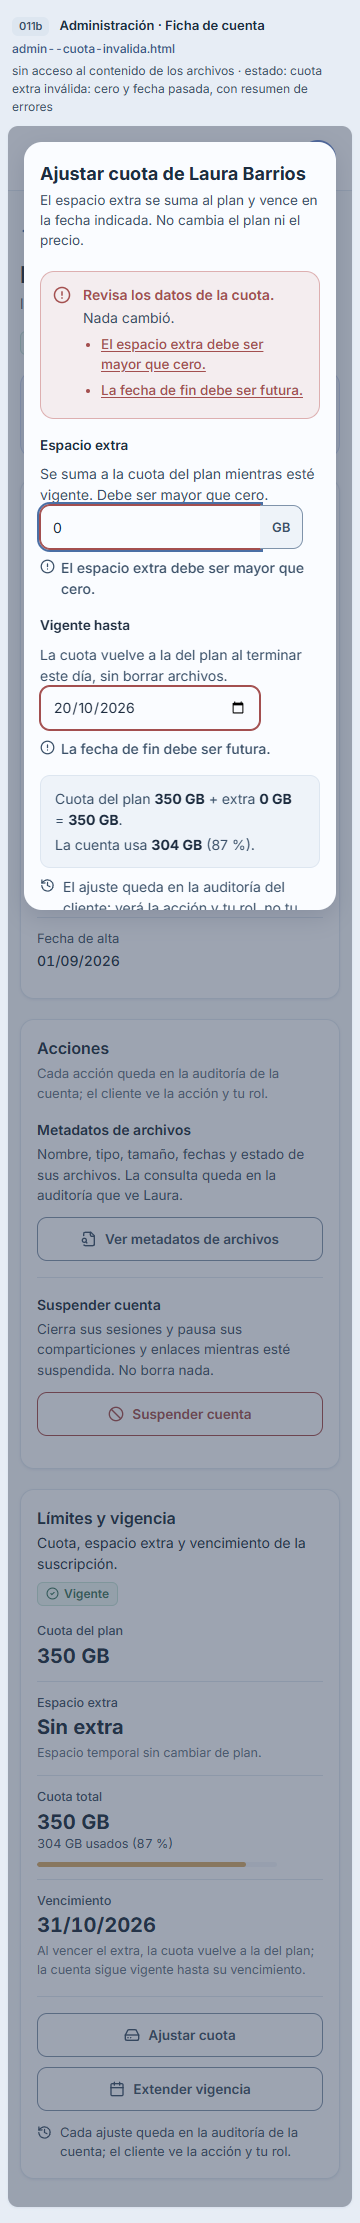
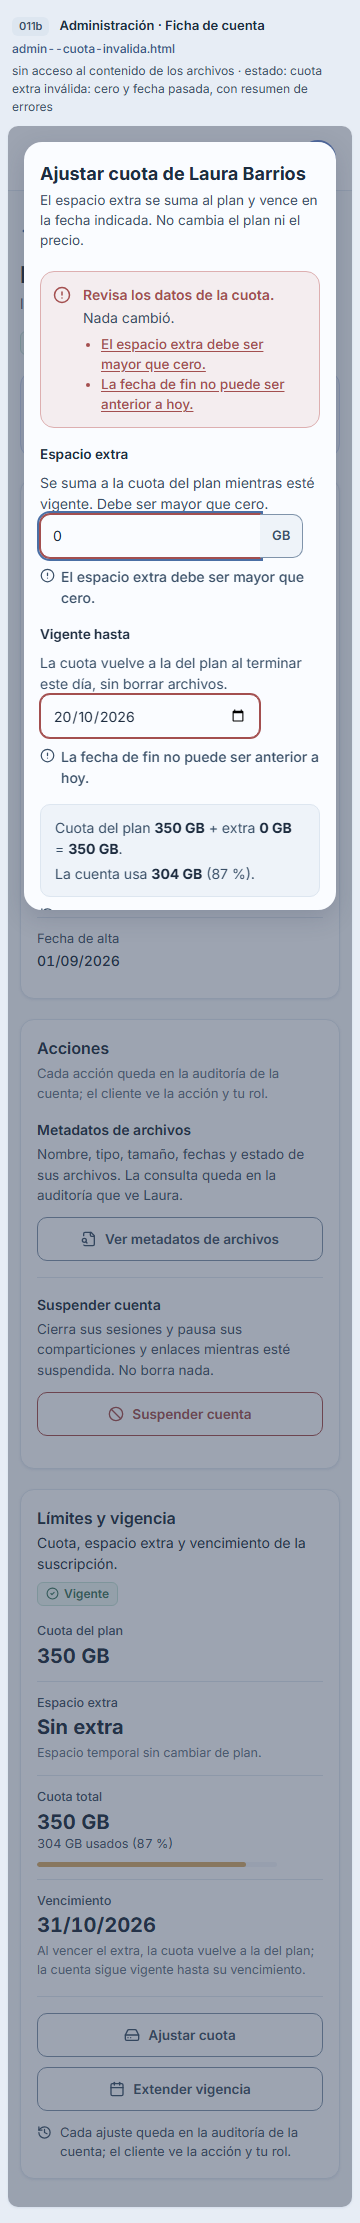
docs(011b): cierra la aprobación de Adrián y pasa la spec a «Lista»
N-7: el diálogo de cambio de plan entra en la regla del último día y «Venció el» queda fuera, con registro en la spec 010. N-8: el mockup cuota-invalida dice «La fecha de fin no puede ser anterior a hoy» y se regeneran sus capturas. Plan aprobado, ADR-0035 y DF-81 aceptados, y backlog al día.

Changed region(s): [[0.0917, 0.1552, 0.8861, 0.4035]]

diff --git a/docs/design/mockups/backoffice/admin/admin--cuota-invalida.html b/docs/design/mockups/backoffice/admin/admin--cuota-invalida.html
@@ -623,7 +623,7 @@
     <form onsubmit="return false">
       
           <div class="alert alert-error" role="alert" tabindex="-1" id="errores"><svg class="ico " width="18" height="18" viewBox="0 0 24 24" fill="none" stroke="currentColor" stroke-width="2" stroke-linecap="round" stroke-linejoin="round" aria-hidden="true" focusable="false"><circle cx="12" cy="12" r="10"/><path d="M12 8v4"/><path d="M12 16h.01"/></svg><div><p class="alert-title">Revisa los datos de la cuota.</p><p class="alert-text">Nada cambió.</p>
-            <ul class="alert-list"><li><a href="#cuota-extra">El espacio extra debe ser mayor que cero.</a></li><li><a href="#cuota-hasta">La fecha de fin debe ser futura.</a></li></ul></div></div>
+            <ul class="alert-list"><li><a href="#cuota-extra">El espacio extra debe ser mayor que cero.</a></li><li><a href="#cuota-hasta">La fecha de fin no puede ser anterior a hoy.</a></li></ul></div></div>
           <div class="field">
             <label for="cuota-extra">Espacio extra</label>
             <p class="field-help" id="cuota-extra-ayuda">Se suma a la cuota del plan mientras esté vigente. Debe ser mayor que cero.</p>
@@ -634,7 +634,7 @@
             <label for="cuota-hasta">Vigente hasta</label>
             <p class="field-help" id="cuota-hasta-ayuda">La cuota vuelve a la del plan al terminar este día, sin borrar archivos.</p>
             <input class="text-input short" id="cuota-hasta" name="cuota-hasta" type="date" value="2026-10-20" required aria-describedby="cuota-hasta-ayuda cuota-hasta-error" aria-invalid="true" >
-            <p class="field-error" id="cuota-hasta-error"><svg class="ico " width="15" height="15" viewBox="0 0 24 24" fill="none" stroke="currentColor" stroke-width="2" stroke-linecap="round" stroke-linejoin="round" aria-hidden="true" focusable="false"><circle cx="12" cy="12" r="10"/><path d="M12 8v4"/><path d="M12 16h.01"/></svg><span>La fecha de fin debe ser futura.</span></p>
+            <p class="field-error" id="cuota-hasta-error"><svg class="ico " width="15" height="15" viewBox="0 0 24 24" fill="none" stroke="currentColor" stroke-width="2" stroke-linecap="round" stroke-linejoin="round" aria-hidden="true" focusable="false"><circle cx="12" cy="12" r="10"/><path d="M12 8v4"/><path d="M12 16h.01"/></svg><span>La fecha de fin no puede ser anterior a hoy.</span></p>
           </div>
       <div class="calc" aria-live="polite">
         <p>Cuota del plan <strong>350 GB</strong> + extra <strong>0 GB</strong> = <strong>350 GB</strong>.</p>

diff --git a/docs/design/mockups/_generadores/admin/generar.js b/docs/design/mockups/_generadores/admin/generar.js
@@ -537,14 +537,17 @@ const DLG_QUITAR_EXTRA = dialogo({
   confirmar: 'Quitar extra', clase: 'btn-primary-dlg', ic: 'circlex', cancelar: 'admin--ficha.html',
 });
 
+const EXTRA_NO_POSITIVO = 'El espacio extra debe ser mayor que cero.';
+const FIN_ANTERIOR_A_HOY = 'La fecha de fin no puede ser anterior a hoy.';
+
 const DLG_CUOTA_INVALIDA = dialogoCuota({
   c: C.LAURA, extra: '0', hasta: '2026-10-20', total: '350 GB', usado: '304 GB', pct: 87,
-  errorCampo: { extra: 'El espacio extra debe ser mayor que cero.', hasta: 'La fecha de fin debe ser futura.' },
+  errorCampo: { extra: EXTRA_NO_POSITIVO, hasta: FIN_ANTERIOR_A_HOY },
   resumen: A.resumenErrores({
     titulo: 'Revisa los datos de la cuota.', texto: 'Nada cambió.',
     items: [
-      ['cuota-extra', 'El espacio extra debe ser mayor que cero.'],
-      ['cuota-hasta', 'La fecha de fin debe ser futura.'],
+      ['cuota-extra', EXTRA_NO_POSITIVO],
+      ['cuota-hasta', FIN_ANTERIOR_A_HOY],
     ],
   }),
 });

diff --git a/specs/011b-ajustes-de-cuenta-y-restauracion/spec.md b/specs/011b-ajustes-de-cuenta-y-restauracion/spec.md
@@ -4,7 +4,7 @@
 
 | Campo | Valor |
 |---|---|
-| Estado | Borrador (2026-10-22, revisado el 2026-10-26) · P-1 a P-9 resueltas · plan propuesto · mockups listos para revisión |
+| Estado | Lista (aprobada por Adrián el 2026-10-26, PR #74) · P-1 a P-9 resueltas · plan, ADR-0035 y mockups aprobados |
 | Dueño | Fátima |
 | Fase | 3 (hereda la 011, Fase 2; se ejecuta en la Fase 3) |
 | Requisitos | RF-05, RF-06, RF-07, RF-12, RF-22, RF-23, RF-24; RNF-05, RNF-13, RNF-14, RNF-17 |
@@ -12,9 +12,9 @@
 | Última actualización | 2026-10-26 |
 
 > **Continuidad:** borrador cerrado, `plan.md` propuesto y `/mockup` listo el 2026-10-22, con los hallazgos del PR #74
-> corregidos el 2026-10-23, la auditoría de Adrián del 2026-10-24 y su seguimiento del 2026-10-26. Lo que queda es la aprobación de Adrián de la spec,
-> el plan, el ADR-0035 y los mockups para pasar a «Lista», y después `/tasks` e `/implement`. Reparto: PR-A (cuota y
-> vigencia) y PR-B (restauración), en ramas nuevas desde `main`; el ADR-0035 se acepta antes del código del PR-A.
+> corregidos el 2026-10-23, la auditoría de Adrián del 2026-10-24 y su seguimiento del 2026-10-26. Adrián aprobó spec,
+> plan, ADR-0035 y mockups el 2026-10-26 («Lista»); sigue `/tasks` e `/implement`. Reparto: PR-A (cuota y vigencia) y
+> PR-B (restauración), en ramas nuevas desde `main`; el ADR-0035 queda aceptado antes del código del PR-A.
 
 ## 1. Contexto y objetivo
 La 011 dejó fuera, por tamaño, tres operaciones que la matriz de roles ya define: el Administrador ajusta la cuota y la
@@ -65,7 +65,7 @@ puede deshacer una eliminación concreta dejando rastro visible para el cliente.
 - **RN-5** Roles: Administración ajusta cuota y vigencia; Soporte restaura; Operador no hace ninguna de las tres; el Cliente no las llama. Administración no restaura y Soporte no ajusta cuota ni vigencia.
 - **RN-6** La cuota extra se aplica también a Personal; la vigencia no, porque Personal no vence.
 - **RN-7** Las tres acciones se permiten sobre cuentas activas o suspendidas y no cambian su estado; suspender sigue revocando sesiones y congelando compartidos (011 RN-6).
-- **RN-8** Los tamaños se capturan en GB con el mismo formato que el catálogo de planes y se guardan en bytes exactos (ADR-0016); la diferencia de bases con `formatBytes` de `storage` sigue en PD-91. Las fechas se muestran en hora de Guatemala y con el formato del sistema; el día que se captura se convierte a las 00:00 del día siguiente en `America/Guatemala` (06:00 UTC) y se guarda en UTC. Un instante de fin (`vence_en`, `cuota_extra_hasta`) se muestra como el último día en que rige: el día en Guatemala del instante menos 1 ms. Así se ve el día elegido, y un `vence_en` de la 010 con hora intermedia se ve igual que hoy. Lo aplican la ficha, el resumen de espacio, «Plan y facturación» y los correos de la 010 que dicen «vence», «venció» o «hasta». No se inventan topes de negocio: el único tope es técnico (`2^53-1` bytes, por el `number` de los contratos y la suma `bigint`); el contrato valida cada valor y el dominio/SQL validan la suma `plan + extra`, y la interfaz muestra el total resultante antes de confirmar.
+- **RN-8** Los tamaños se capturan en GB con el mismo formato que el catálogo de planes y se guardan en bytes exactos (ADR-0016); la diferencia de bases con `formatBytes` de `storage` sigue en PD-91. Las fechas se muestran en hora de Guatemala y con el formato del sistema; el día que se captura se convierte a las 00:00 del día siguiente en `America/Guatemala` (06:00 UTC) y se guarda en UTC. Un instante de fin (`vence_en`, `cuota_extra_hasta`) se muestra como el último día en que rige: el día en Guatemala del instante menos 1 ms. Así se ve el día elegido, y un `vence_en` de la 010 con hora intermedia se ve igual que hoy. Lo aplican la ficha, el resumen de espacio, «Plan y facturación», el diálogo de cambio de plan y los correos de la 010 que dicen «vence» o «hasta». «Venció el» queda fuera: muestra el instante real, el primer día sin vigencia («Activo hasta el 30/11» y después «Venció el 01/12»). No se inventan topes de negocio: el único tope es técnico (`2^53-1` bytes, por el `number` de los contratos y la suma `bigint`); el contrato valida cada valor y el dominio/SQL validan la suma `plan + extra`, y la interfaz muestra el total resultante antes de confirmar.
 
 ## 5. Seguridad y privacidad
 - **Toca datos de un cliente: sí** → pruebas de aislamiento bloqueantes (RNF-05), además de las unitarias y de integración.
@@ -116,3 +116,5 @@ puede deshacer una eliminación concreta dejando rastro visible para el cliente.
 | 2026-10-23 | ADR renumerado a 0035: el 0033 lo usa la 019 y el 0034 la SDD express en `main` | Evitar el choque de numeración entre specs abiertas | Fátima |
 | 2026-10-23 | Hallazgos del PR #74: restauración por función `SECURITY DEFINER`, funciones de cuenta `VOLATILE` con política del dueño, sin reinicio de avisos, fecha de vigencia siempre posterior a ahora, tope técnico `2^53-1`, códigos de error separados y nombres de estados de la interfaz | Revisión de `architect`, `security-auditor`, `ui-designer` y `reviewer` | Fátima |
 | 2026-10-24 | Auditoría de Adrián: ADR-0035 y DF-81; restauración permitida en solo lectura fuera de la lista de bloqueos de ADR-0032; fecha con conversión de día Guatemala; `PUT` con extra > 0 y `DELETE` para quitar; errores de cuenta interna y sin suscripción separados; fuente de verdad de reglas y mapeo SQL; `FormDialog` y CSS compartidos | Cierre de B-1 a B-4, M-1 a M-7 y menores | Fátima |
+| 2026-10-26 | Seguimiento de Adrián: lectura `limites_de_cuenta`, fecha a las 00:00 del día siguiente en Guatemala, `no_subscription` en la vigencia. RN-8: un instante de fin se muestra como el último día en que rige; CA-6, CA-7 y RN-2 piden un día posterior al que se muestra | Cierre de N-1 a N-6 y decisión de Fátima sobre las fechas de fin | Fátima |
+| 2026-10-26 | N-7: el diálogo de cambio de plan usa la regla; «Venció el» queda fuera de ella. N-8: mensaje «La fecha de fin no puede ser anterior a hoy». Spec, plan, ADR-0035 y mockups aprobados: pasa a «Lista» | Aprobación de Adrián, PR #74 | Adrián |

diff --git a/docs/sdd/design-findings.md b/docs/sdd/design-findings.md
@@ -105,7 +105,7 @@
 | DF-78 | Media | Clases M5, M6, Arquitectura §3, §5, §7.3 y §8 | El diagrama dice que `editing` encola `IIndexQueue` y que `intelligence` lo implementa, y 005/014 no publican nada (PD-90). Carga nueva, reemplazo, restauración, edición y optimización son cinco caminos distintos que deben reindexar. | La versión vigente nueva se anuncia con el evento `storage.file-version-created` `{fileId, versionId, ownerId, kind}` después del commit (ADR-0019). `IIndexQueue` pasa a **interno** de `intelligence` (BullMQ, `jobId` = `versionId`) y `editing` deja de encolar. El `worker` procesa; como los sockets viven en el `api` (ADR-0030), publica el estado en la cola `index-status` y el `api` lo retransmite. Arista nueva `intelligence → audit`. Conciliación `index-reconcile`. Cierra PD-18 y PD-90 al implementar. | Aceptado (plan 019, aprobado por Adrián 2026-10-21); aplicado en 019 (código y textos de `architecture.md` y `design-model.md`, T-11); falta redibujar «Indexación» (PD-129) |
 | DF-79 | Baja | E-R inteligencia, Clases M6 | El E-R no tiene el estado por versión con motivo ni `orden`, y las ubicaciones del diagrama no cubren hoja ni diapositiva ni rangos. | `indexacion` una fila por versión (`UNIQUE`), `estado` y `motivo` con `CHECK`; `fragmento` con `archivo_id`, `version_archivo_id`, `orden`, `texto`, `procedencia jsonb`, `embedding vector(768)` y `texto_busq` generado, RLS con `FORCE`. `SourceLocation` suma `SheetLocation` y `SlideLocation` y las ubicaciones de docx y texto llevan rango; `Chunker` solo une segmentos con igual `groupKey()`. Cierra DF-07, DF-14 y DF-37. | Aceptado (plan 019, aprobado por Adrián 2026-10-21); aplicado en 019 (código y textos de `architecture.md` y `design-model.md`, T-11); falta redibujar «Indexación» (PD-129) |
 | DF-80 | Baja | Arquitectura §3 y §5, Clases M7 | `ICommandRunner` figura en M7, pero 019 lo necesita antes (Ghostscript para extraer PDF) y `intelligence` no puede importar `optimizer`. ADR-0019 pide extraer un publicador de eventos cuando un tercer módulo publica, y `storage` lo es. | `IDomainEventPublisher` + `EventEmitterDomainEventPublisher` van a `shared` (tercer productor, ADR-0019). `ICommandRunner` + `ChildProcessRunner` quedan **internos de `intelligence`** (un solo consumidor; `shared` admite lo que usan ≥ 3 módulos) y 021 los mueve a `shared` al ser el segundo consumidor. `IAccountEventsPublisher` y `SocketIoHub` migran después (PD-125). | Aceptado (plan 019, aprobado por Adrián 2026-10-21); aplicado en 019 (código y textos de `architecture.md` y `design-model.md`, T-11); falta redibujar «Indexación» (PD-129) |
-| DF-81 | Media | Clases M8, M4, M2, T1, T2, E-R suscripciones, arquitectura §6.5/§6.6 | El plan de la 011b se aparta de los diagramas en lo que no previeron. **M8**: `AccountAdjustmentsService` y `ClientTrashService` (no `AdminService.adjustQuota/adjustValidity`); `InternalAction.event` puede devolver una lista (`subscription.read_only_exited`) y `run` la normaliza sin cambiar a los llamadores. **M4**: `SubscriptionAdministration` con `limitsOf`/`adjustQuota`/`adjustValidity`, `ISubscriptionAdministrationRepository` y errores de cuota en `billing`; dos funciones de escritura y una de lectura (`limites_de_cuenta`, `ajustar_cuota_extra`, `extender_vigencia`); las de escritura bloquean, validan y devuelven código + vista, y la de lectura es `STABLE` y devuelve la vista o 0 filas; la política `SELECT` existente y una `UPDATE TO CURRENT_USER` acotada; sin `IAccountUsageLock` ni `bloquear_suscripcion_cliente` (YAGNI). **M2**: `SupportTrashService`, `ISupportTrashRepository` (`listRoots(actor, query)`, `restoreRoot(actor, cmd)`), `restaurar_raiz_papelera` y políticas del dueño; sin `findRoot`, `trash-placement` ni `UPDATE` de `nimbo_app`. **M1/T1**: `route POST /backoffice/client-trash/:nodeId/restore` con `type` en el cuerpo. **T2**: `note` solo en `NODE_RESTORED`; `recordLine` omite texto libre. **UI**: `FormDialog` compartido en `area.js`. | Reflejar en `design-model.md` (M8, M4, M2, T1, T2 y mapeo), `architecture.md` §6.5/§6.6 y el E-R (`suscripcion` con `cuota_extra_*` y `vence_en`) en PD-96. | Propuesto con el plan 011b (2026-10-24; ajustado el 2026-10-26); se acepta con el ADR-0035 antes del PR-A |
+| DF-81 | Media | Clases M8, M4, M2, T1, T2, E-R suscripciones, arquitectura §6.5/§6.6 | El plan de la 011b se aparta de los diagramas en lo que no previeron. **M8**: `AccountAdjustmentsService` y `ClientTrashService` (no `AdminService.adjustQuota/adjustValidity`); `InternalAction.event` puede devolver una lista (`subscription.read_only_exited`) y `run` la normaliza sin cambiar a los llamadores. **M4**: `SubscriptionAdministration` con `limitsOf`/`adjustQuota`/`adjustValidity`, `ISubscriptionAdministrationRepository` y errores de cuota en `billing`; dos funciones de escritura y una de lectura (`limites_de_cuenta`, `ajustar_cuota_extra`, `extender_vigencia`); las de escritura bloquean, validan y devuelven código + vista, y la de lectura es `STABLE` y devuelve la vista o 0 filas; la política `SELECT` existente y una `UPDATE TO CURRENT_USER` acotada; sin `IAccountUsageLock` ni `bloquear_suscripcion_cliente` (YAGNI). **M2**: `SupportTrashService`, `ISupportTrashRepository` (`listRoots(actor, query)`, `restoreRoot(actor, cmd)`), `restaurar_raiz_papelera` y políticas del dueño; sin `findRoot`, `trash-placement` ni `UPDATE` de `nimbo_app`. **M1/T1**: `route POST /backoffice/client-trash/:nodeId/restore` con `type` en el cuerpo. **T2**: `note` solo en `NODE_RESTORED`; `recordLine` omite texto libre. **UI**: `FormDialog` compartido en `area.js`. | Reflejar en `design-model.md` (M8, M4, M2, T1, T2 y mapeo), `architecture.md` §6.5/§6.6 y el E-R (`suscripcion` con `cuota_extra_*` y `vence_en`) en PD-96. | Aceptado (plan 011b y ADR-0035, aprobados por Adrián 2026-10-26); se aplica en PR-A y PR-B |
 
 ## Arquitectura y operación
 

diff --git a/specs/README.md b/specs/README.md
@@ -52,7 +52,7 @@ Antes de planificar las specs de Fase 1, el equipo decide en una reunión los ha
 | 009  | contratacion-pagos-y-facturas (incluye el PD-40: suscripción Personal y conciliación, y el PD-80) | M4 | RF-20, 21 | 23 | 2 | Juan Marcos | 008, 011 (parte de `billing` e `identity`) | Hecha (2026-10-18): PR #62 integrado en `main` (`4b16c7d`), aprobado por Adrián |
 | 010  | [renovacion-vencimiento-y-cambio-de-plan](010-renovacion-vencimiento-y-cambio-de-plan/spec.md)                             | M4                  | RF-22, 23, 24             | 25                         | 2    | Juan Marcos | 009           | En revisión (2026-10-21): 12 de 12 tareas y `review.md`; spec, plan, ADR-0031 y ADR-0032 aprobados por Adrián (2026-10-20); se integra desde `feat/010b-renovacion-web` (PR #70) |
 | 011  | [administracion-y-soporte](011-administracion-y-soporte/spec.md)                           | M8                  | RF-06                     | 04, 36                     | 2    | Fátima | 003, 004, 005, 006, 007, 008 | En revisión (2026-10-20): el PR-A (T-01 a T-08) está en `main`; el PR-B va en `feat/011-cuentas-catalogo-y-metricas` (borrador #67) con T-10 a T-14 y T-12 hechas, con su `review.md` sin bloqueantes; falta el visto bueno de Adrián y el de Juan Marcos a su `billing` y al `PlanCard` |
-| 011b | [ajustes-de-cuenta-y-restauracion](011b-ajustes-de-cuenta-y-restauracion/spec.md) (ajuste de cuota y de vigencia, restauración de papelera por Soporte; separada de 011 por tamaño) | M8                  | RF-05, RF-06, RF-07, RF-12, RF-22, RF-23, RF-24 | 26                         | 3    | Fátima | 004, 006, 007, 009, 010, 011 | Borrador (2026-10-22, revisada el 2026-10-26): [spec](011b-ajustes-de-cuenta-y-restauracion/spec.md), [plan](011b-ajustes-de-cuenta-y-restauracion/plan.md) y [ADR-0035](../docs/adr/0035-escrituras-internas-acotadas-de-ajustes-y-restauracion.md) propuestos; auditoría de Adrián cerrada (ADR/DF renumerados, restauración permitida en solo lectura sin editar ADR-0032, fecha de día Guatemala, `PUT` > 0 y `DELETE`, errores separados y fuente de verdad SQL); seguimiento de Adrián cerrado (tres funciones: dos de escritura y una de lectura, fechas, códigos y mapeo); `/mockup` listo; falta la aprobación de Adrián para pasar a «Lista» |
+| 011b | [ajustes-de-cuenta-y-restauracion](011b-ajustes-de-cuenta-y-restauracion/spec.md) (ajuste de cuota y de vigencia, restauración de papelera por Soporte; separada de 011 por tamaño) | M8                  | RF-05, RF-06, RF-07, RF-12, RF-22, RF-23, RF-24 | 26                         | 3    | Fátima | 004, 006, 007, 009, 010, 011 | Lista (2026-10-26): [spec](011b-ajustes-de-cuenta-y-restauracion/spec.md), [plan](011b-ajustes-de-cuenta-y-restauracion/plan.md), [ADR-0035](../docs/adr/0035-escrituras-internas-acotadas-de-ajustes-y-restauracion.md) y mockups aprobados por Adrián (PR #74); sigue `/tasks` y el PR-A en `feat/011b-ajustes` |
 | 012  | comparticion-y-accesos                                                                     | M3b                 | RF-16, 18                 | 31                         | 2    | Fátima | 003, 006      | Pendiente |
 | 013  | enlaces-publicos                                                                           | M3b                 | RF-17, RNF-08             | 09, 10                     | 2    | Fátima | 012           | Pendiente |
 | 014  | versiones-y-restauracion                                                                   | M2 (+ M5 autoría)   | RF-13, 29                 | 17, 18                     | 2    | Adrián | 005           | En revisión (2026-10-10): T-01…T-10 en `feat/014-versiones-y-restauracion`; [revisión](014-versiones-y-restauracion/review.md) con B-1, B-2 e I-1…I-3 corregidos (T-FIX-1…5); pasa a `Hecha` al integrarla. [spec](014-versiones-y-restauracion/spec.md), [plan](014-versiones-y-restauracion/plan.md) y [tareas](014-versiones-y-restauracion/tasks.md) |

diff --git a/specs/011b-ajustes-de-cuenta-y-restauracion/plan.md b/specs/011b-ajustes-de-cuenta-y-restauracion/plan.md
@@ -1,6 +1,6 @@
 # Plan 011b — Ajustes de cuenta y restauración por Soporte
 
-> Spec: `./spec.md` · Estado del plan: **Propuesto** (2026-10-22, revisado el 2026-10-26)
+> Spec: `./spec.md` · Estado del plan: **Aprobado** (Adrián, 2026-10-26; propuesto el 2026-10-22)
 > Obligatorio y ≤ 250 líneas. Dice qué archivos se tocan y qué se espera de cada uno; no es el código en prosa.
 > Lo aprueba Adrián antes de escribir código. **PR-A** (cuota y vigencia) en `feat/011b-ajustes`, desde `main`; **PR-B**
 > (restauración) en `feat/011b-restauracion`, rama nueva desde `main` cuando el PR-A esté integrado. No se apilan.
@@ -62,7 +62,7 @@
 | web/app | `app/(app)/(interno)/soporte/papelera/page.tsx` (nuevo) | Ruta de Soporte; `INTERNAL_PATHS.supportTrash` y la navegación interna en `home-path.ts` e `internal-area-layout.tsx`. |
 | web/storage | `space-summary-view.tsx`, `sidebar-quota.tsx` | Nota «Tu cuota incluye <X> GB extra hasta el <fecha>» cuando `extraQuotaBytes > 0`; desaparece al vencer. |
 | web/audit | `activity-labels.ts` + spec | Textos de `account.quota_adjusted` y `account.validity_adjusted`; `node.restored` y el bloque de `note` ya existen. |
-| web/lib, web/billing, billing/application | `lib/format-date.ts` + spec, `subscription-copy.ts`, `payment-form.tsx`, `renewal-payment.tsx`; `billing-date.ts` + spec, `renewal-messages.ts` | `lastDayLabel`, `longLastDayLabel` y `formatBillingLastDay` muestran un instante de fin como el último día en que rige (día de Guatemala de `instante − 1 ms`, RN-8). Los usan la ficha, la nota del resumen de espacio y las vistas y correos de la 010 que dicen «vence», «venció» o «hasta»; las demás fechas («se aplica el», «empieza el») no cambian. |
+| web/lib, web/billing, billing/application | `lib/format-date.ts` + spec, `subscription-copy.ts`, `plan-change-copy.ts`, `payment-form.tsx`, `renewal-payment.tsx`; `billing-date.ts` + spec, `renewal-messages.ts` | `lastDayLabel`, `longLastDayLabel` y `formatBillingLastDay` muestran un instante de fin como el último día en que rige (día de Guatemala de `instante − 1 ms`, RN-8). Los usan la ficha, la nota del resumen de espacio y las vistas y correos de la 010 que dicen «vence» o «hasta» (en `plan-change-copy.ts`, «Plan actual · hasta el»; «el»/«desde el» siguen con el instante). «Venció el» (`current-plan-card.tsx`, correo de vencida) y las demás fechas («se aplica el», «empieza el») no cambian. |
 
 - **Puertos nuevos:** `ISubscriptionAdministrationRepository` (billing), `ISupportTrashRepository` (storage) y la fachada
   `SupportTrashService`. Sin `IAccountUsageLock`: las funciones de escritura de §3 bloquean `usuario` y validan el uso en
@@ -244,7 +244,6 @@ CREATE POLICY archivo_soporte_destino ON archivo FOR SELECT TO CURRENT_USER
 - **Fuera de alcance:** lo de la spec §7. No se añaden dependencias.
 
 ## 8. Aprobación
-- `architect`: veredicto pendiente sobre el ADR-0035 y las funciones `SECURITY DEFINER`; `security-auditor`: revisión de
-  las políticas del dueño y de la función de restauración.
-- Juan Marcos: visto bueno pendiente de `billing` (dominio, aplicación y migración).
-- Adrián: **Propuesto** — 2026-10-22; revisión de los hallazgos del PR #74 el 2026-10-23, auditoría del 2026-10-24 y seguimiento del 2026-10-26.
+- Adrián: **Aprobado — Adrián, 2026-10-26** (PR #74): spec, plan, ADR-0035 y mockups; su aprobación basta y no se espera
+  a `architect`, Juan Marcos ni `security-auditor`. Antes: auditorías del 2026-10-23, 2026-10-24 y 2026-10-26.
+- `security-auditor` sigue siendo obligatorio en la revisión de cada PR de código (aislamiento, CA-15).

diff --git a/docs/adr/README.md b/docs/adr/README.md
@@ -38,7 +38,7 @@ Son la base para defender la arquitectura en la exposición final (enunciado §6
 | 0032 | [La solo lectura por vencimiento se comprueba en los servicios de escritura con `PlanLimits.readOnly`](0032-solo-lectura-por-planlimits-en-los-servicios-de-escritura.md) (enmienda `architecture.md` §7.5 y la nota de DF-51; spec 010; antes numerado 0029) | Aceptado |
 | 0033 | [Extracción de texto (`fflate`, `fast-xml-parser`, Ghostscript), embeddings por REST y relay `index-status`](0033-extraccion-de-texto-y-embeddings-por-rest.md) (spec 019, DF-78) | Aceptado |
 | 0034 | [SDD express en un pase: spec, plan y tareas juntos](0034-sdd-express-un-pase.md) (enmienda la secuencia de ADR-0023) | Propuesto |
-| 0035 | [Escrituras internas acotadas: funciones `SECURITY DEFINER` para la cuenta y la papelera](0035-escrituras-internas-acotadas-de-ajustes-y-restauracion.md) (spec 011b; PR-A y PR-B; **enmienda ADR-0005 y ADR-0021**, delimita ADR-0032 regla 3) | Propuesto |
+| 0035 | [Escrituras internas acotadas: funciones `SECURITY DEFINER` para la cuenta y la papelera](0035-escrituras-internas-acotadas-de-ajustes-y-restauracion.md) (spec 011b; PR-A y PR-B; **enmienda ADR-0005 y ADR-0021**, delimita ADR-0032 regla 3) | Aceptado |
 
 Estados: `Pendiente` (sin redactar) · `Propuesto` (redactado, falta acuerdo del equipo) · `Aceptado` · `Reemplazado por`.
 Los ADR 0001, 0002, 0008, 0009, 0014 y 0015 se aceptaron el 26/09/2026 (Adrián, parte de ADR de la T-27 de la spec 000).
@@ -56,7 +56,7 @@ El 0023 lo redactó y lo aceptó Adrián el 30/09/2026 al adoptar SDD express; r
 El 0024 lo redactó el `architect` y lo aprobó Adrián el 30/09/2026 (dependencia `sonner`, spec 006).
 Los ADR 0004 y 0029 los redactó el `architect` con el plan de la spec 016 (2026-10-16) como `Propuesto`; Adrián los aceptó al aprobar el plan (2026-10-16); 0029 hace una excepción acotada a ADR-0001 y matiza ADR-0030.
 ADR-0034 (2026-10-23) enmienda la secuencia de ADR-0023: un solo pase al crear una spec que todavía no tiene carpeta. No reescribe las que ya existen.
-ADR-0035 (2026-10-26) documenta las escrituras internas acotadas de la 011b; enmienda ADR-0005 y ADR-0021 y delimita ADR-0032 regla 3.
+ADR-0035 (2026-10-26) documenta las escrituras internas acotadas de la 011b; enmienda ADR-0005 y ADR-0021 y delimita ADR-0032 regla 3. Adrián lo aceptó el 2026-10-26 al aprobar el plan (PR #74).
 
 Los ADR 0003, 0007 y 0033 los redactó el `architect` con el plan de la spec 019 (2026-10-21) como `Propuesto`; Adrián los acepta al aprobar el plan.
 

diff --git a/specs/010-renovacion-vencimiento-y-cambio-de-plan/spec.md b/specs/010-renovacion-vencimiento-y-cambio-de-plan/spec.md
@@ -140,3 +140,4 @@ programar un cambio de plan (subir, bajar o volver a Personal) que se aplica en 
 | 2026-10-20 | RN-3: en solo lectura el interruptor se deshabilita y el valor rige desde la renovación manual; RN-11: la 010 aplica la solo lectura en el editor de la 016 (ya integrada) | Auditoría de Adrián, PR #69 (menor 4 y M-1) | Borrador (pendiente Adrián) |
 | 2026-10-20 | CA-29 y §6: el aviso del cambio programado dice que el plan ya no está disponible y con qué plan se renovará; «Próximo cobro» y el aviso previo usan el plan actual | Revisión de la 010 contra la auditoría del PR #69 (B-2) | Borrador (pendiente Adrián) |
 | 2026-10-21 | Spec y plan aprobados por Adrián (2026-10-20); ADR-0031 y ADR-0032 aceptados; se registra en plan §8 | Segunda verificación del PR #70 (N-6) | Adrián |
+| 2026-10-26 | Sin cambio de comportamiento propio: la 011b (RN-8) muestra un instante de fin como el último día en que rige en las vistas y correos que dicen «vence» o «hasta» (`subscription-copy`, `plan-change-copy`, `payment-form`, `renewal-payment`, `renewal-messages`). Las fechas de la 010 con hora intermedia se ven igual; «Venció el», «se aplica el» y «empieza el» no cambian | Spec 011b, N-7 del PR #74 | Adrián |

diff --git a/docs/adr/0035-escrituras-internas-acotadas-de-ajustes-y-restauracion.md b/docs/adr/0035-escrituras-internas-acotadas-de-ajustes-y-restauracion.md
@@ -2,7 +2,7 @@
 
 | Campo | Valor |
 |---|---|
-| Estado | Propuesto (2026-10-22; corregido el 2026-10-24 y el 2026-10-26 tras las auditorías de Adrián). **Enmienda ADR-0005 y ADR-0021**; delimita ADR-0032 regla 3. Se acepta antes del código del PR-A |
+| Estado | **Aceptado** (Adrián, 2026-10-26, PR #74; propuesto el 2026-10-22 y corregido el 2026-10-24 y el 2026-10-26). **Enmienda ADR-0005 y ADR-0021**; delimita ADR-0032 regla 3 |
 | Fecha | 2026-10-22 |
 | Numeración | 0035 desde 2026-10-24: el 0034 lo usa la ADR de SDD express en `main`; el 0033 lo usa la 019 |
 | Decisores | `architect`, Fátima (dueña de 011/011b), Adrián (aprueba `storage`/`identity`/`audit`), Juan Marcos (dueño de `billing`) |
